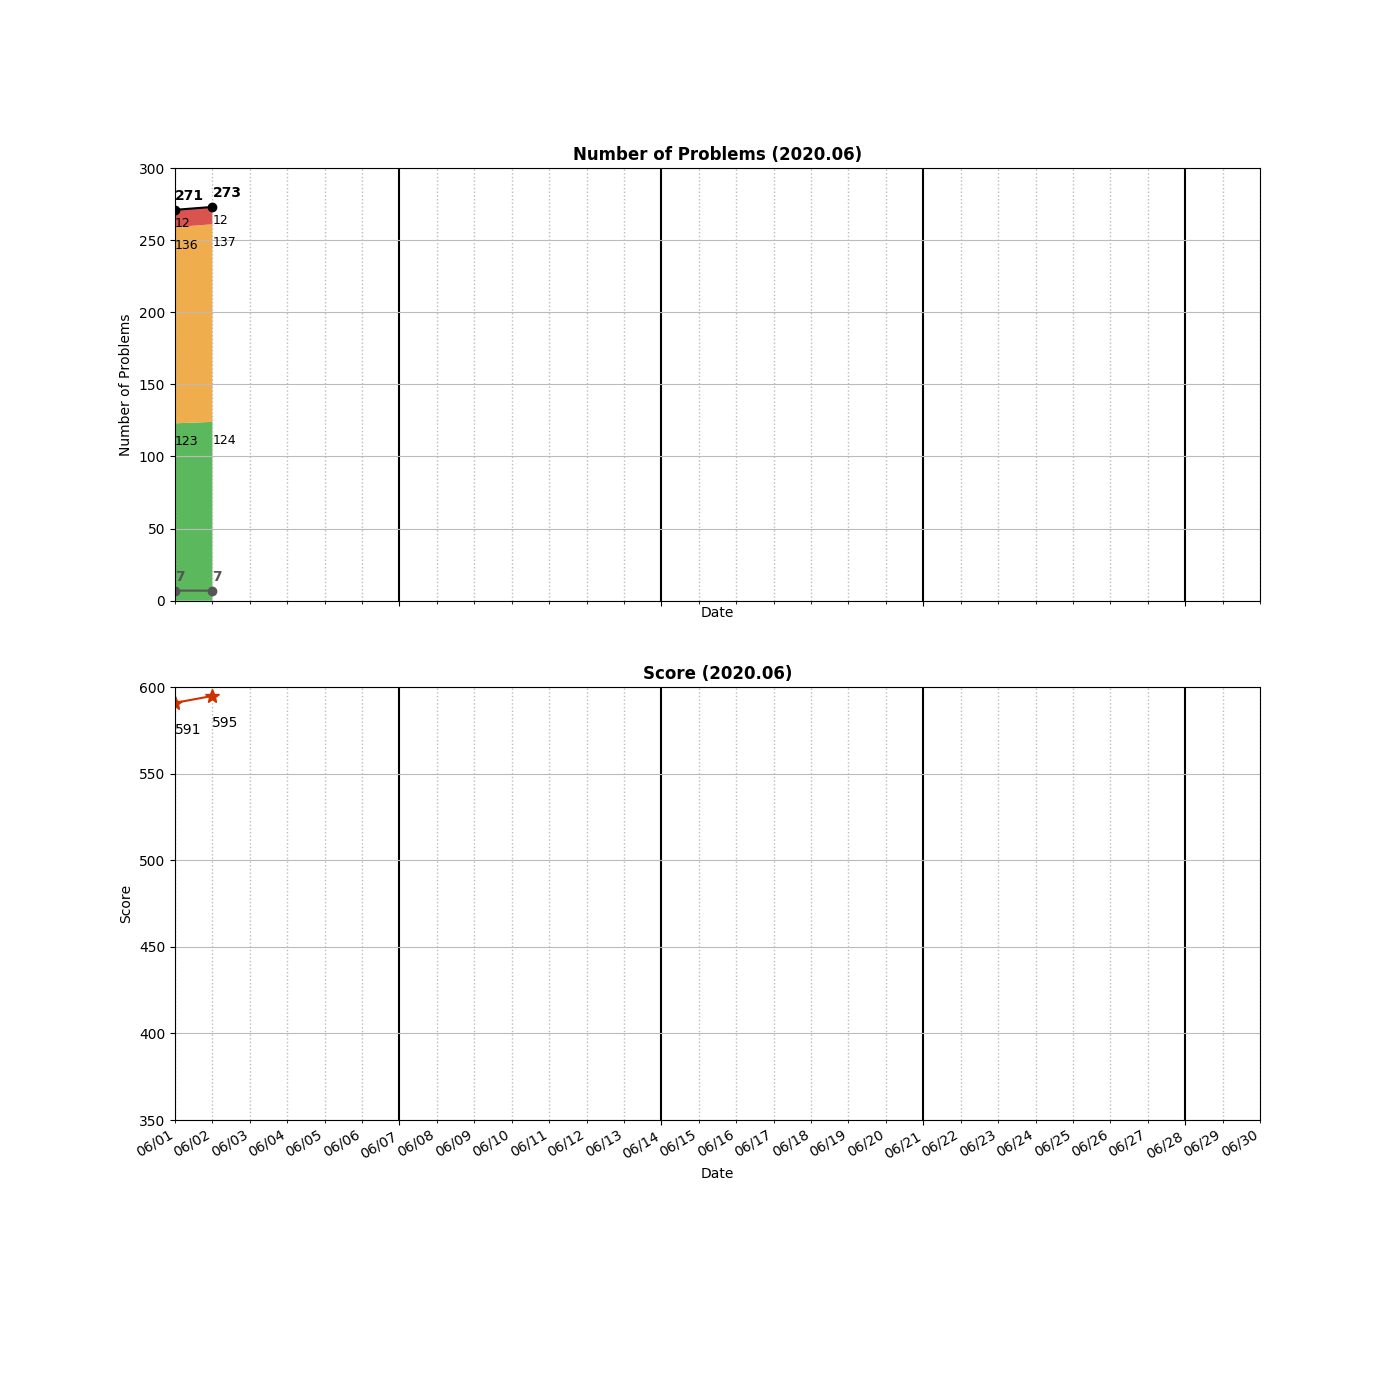
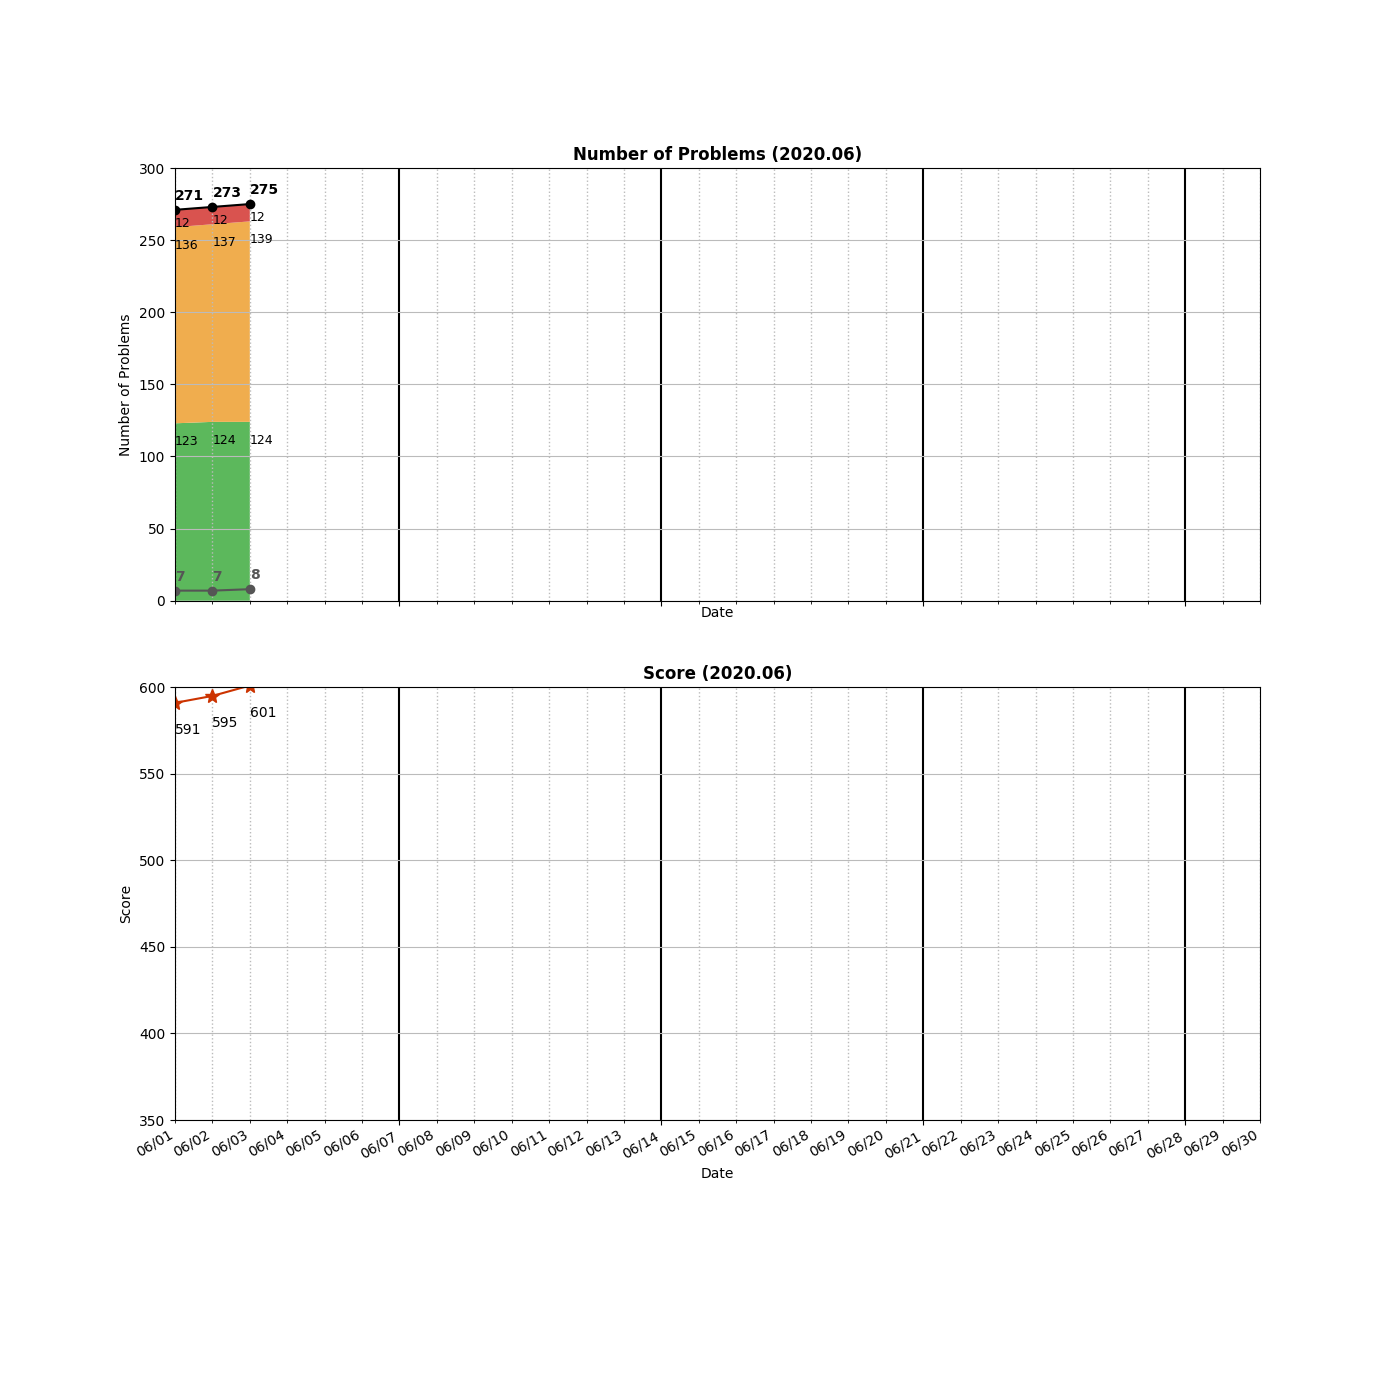
Reviewed _0206_ReverseLinkedList.py

Changed region(s): [[0.1536, 0.1229, 0.1843, 0.43]]

diff --git a/README.md b/README.md
@@ -179,6 +179,7 @@ algo
 │   ├── _0061_RotateList.py
 │   ├── _0082_RemoveDuplicatesFromSortedList2.py
 │   ├── _0083_RemoveDuplicatesFromSortedList.py
+│   ├── _0092_ReverseLinkedList2.py
 │   ├── _0141_LinkedListCycle.py
 │   ├── _0142_LinkedListCycle2.py
 │   ├── _0147_InsertionSortList.py
@@ -188,7 +189,8 @@ algo
 │   ├── _0206_ReverseLinkedList.py
 │   ├── _0234_PalindromeLinkedList.py
 │   ├── _0237_DeleteNodeInALinkedList.py
-│   └── _0876_MiddleOfTheLinkedList.py
+│   ├── _0876_MiddleOfTheLinkedList.py
+│   └── _1019_NextGreaterNodeInLinkedList.py
 ├── math
 │   ├── _0009_PalindromeNumber.py
 │   ├── _0202_HappyNumber.py
@@ -296,7 +298,7 @@ algo
     ├── _0127_WordLadder_TLE.py
     └── _0127_WordLadder_wrong.py
 
-24 directories, 271 files
+24 directories, 273 files
 
 =====================================
 ============= Local Repo ============
@@ -363,6 +365,7 @@ _0083_RemoveDuplicatesFromSortedList.py
 _0088_MergeSortedArray.py
 _0089_GrayCode.py
 _0090_Subsets2.py
+_0092_ReverseLinkedList2.py
 _0094_BinaryTreeInorderTraversal.py
 _0096_UniqueBinarySearchTrees.py
 _0098_ValidateBinarySearchTree.py
@@ -557,6 +560,7 @@ _0977_SquaresOfASortedArray.py
 _0981_TimeBasedKey-ValueStore.py
 _0994_RottingOranges.py
 _1002_FindCommonCharacters.py
+_1019_NextGreaterNodeInLinkedList.py
 _1022_SumOfRootToLeafBinaryNumbers.py
 _1046_LastStoneWeight.py
 _1048_LongestStringChain.py
@@ -572,7 +576,7 @@ _1358_NumberOfSubstringsContainingAllThreeCharacters.py
 _1391_CheckIfThereIsAValidPathInAGrid.py
 _1427_PerformStringShifts.py
 =====================================
-Num of Python Practice:  270
+Num of Python Practice:  272
 
 
 =====================================
@@ -640,6 +644,7 @@ Num of Python Practice:  270
  0088 Merge Sorted Array
  0089 Gray Code
  0090 Subsets II
+ 0092 Reverse Linked List II
  0094 Binary Tree Inorder Traversal
  0096 Unique Binary Search Trees
  0098 Validate Binary Search Tree
@@ -836,6 +841,7 @@ Num of Python Practice:  270
  0981 Time Based Key-Value Store
  0994 Rotting Oranges
  1002 Find Common Characters
+ 1019 Next Greater Node In Linked List
  1022 Sum of Root To Leaf Binary Numbers
  1046 Last Stone Weight
  1048 Longest String Chain
@@ -853,10 +859,10 @@ Num of Python Practice:  270
  1427 Perform String Shifts
 =====================================
 Solved / Total (Easy)  :  124 /  410
-Solved / Total (Medium):  137 /  750
+Solved / Total (Medium):  139 /  750
 Solved / Total (Hard)  :   12 /  307
-Solved / Total (All)   :  273 / 1467
-Total Score            :  595
+Solved / Total (All)   :  275 / 1467
+Total Score            :  601
 =====================================
 
 ```
